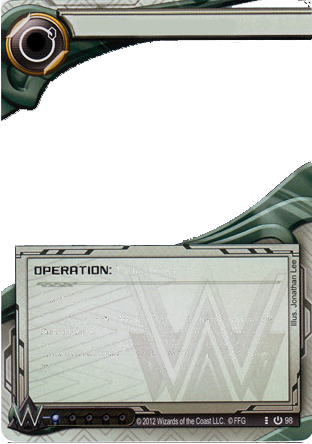
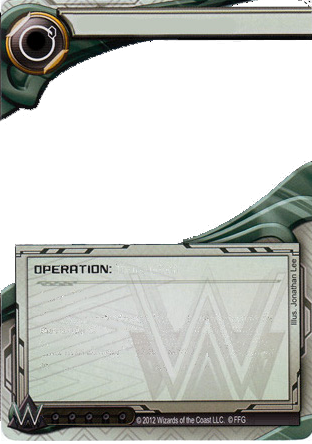
added influence

diff --git a/src/css/main.scss b/src/css/main.scss
@@ -66,6 +66,19 @@ body{
       font-size: 10px;
     }
   }
+  .influence{
+    background: url('/img/influence-pip.png');
+    width: 88px;
+    height: 16px;
+    background-repeat: repeat;
+    background-size: 17px;
+    &.i0{ width: 0;}
+    &.i1{ width: 18px;}
+    &.i2{ width: 32px;}
+    &.i3{ width: 51px;}
+    &.i4{ width: 68px;}
+    &.i5{ width: 88px;}
+  }
 
 
   &.agenda{
@@ -121,6 +134,10 @@ body{
       font-weight: normal;
       text-align: left;
     }
+    .influence{
+      bottom: 14px;
+      left: 44px;
+    }
   }
 
   &.operation{
@@ -150,6 +167,10 @@ body{
       left: 33px;
       font-weight: normal;
       text-align: left;
+    }
+    .influence{
+      bottom: 14px;
+      left: 45px;
     }
   }
 
@@ -185,6 +206,10 @@ body{
       font-weight: normal;
       text-align: left;
     }
+    .influence{
+      bottom: 12px;
+      left: 44px;
+    }
   }
 
 
@@ -219,6 +244,10 @@ body{
       left: 33px;
       font-weight: normal;
       text-align: left;
+    }
+    .influence{
+      bottom: 16px;
+      left: 44px;
     }
   }
 
@@ -261,6 +290,12 @@ body{
       font-weight: normal;
       text-align: left;
       width: 208px;
+    }
+    .influence{
+      transform-origin: bottom left;
+      transform: rotate(-90deg);
+      bottom: 52px;
+      left: 304px;
     }
   }
 

diff --git a/src/html/index.html b/src/html/index.html
@@ -43,6 +43,7 @@
                     <div class="strength shadow right"></div>
                     <div class="strength shadow bottom"></div>
                     <div class="type"></div>
+                    <div class="influence"></div>
                     <div class="main-content">
                         <pre class="text"></pre>
                         <pre class="fluff"></pre>
